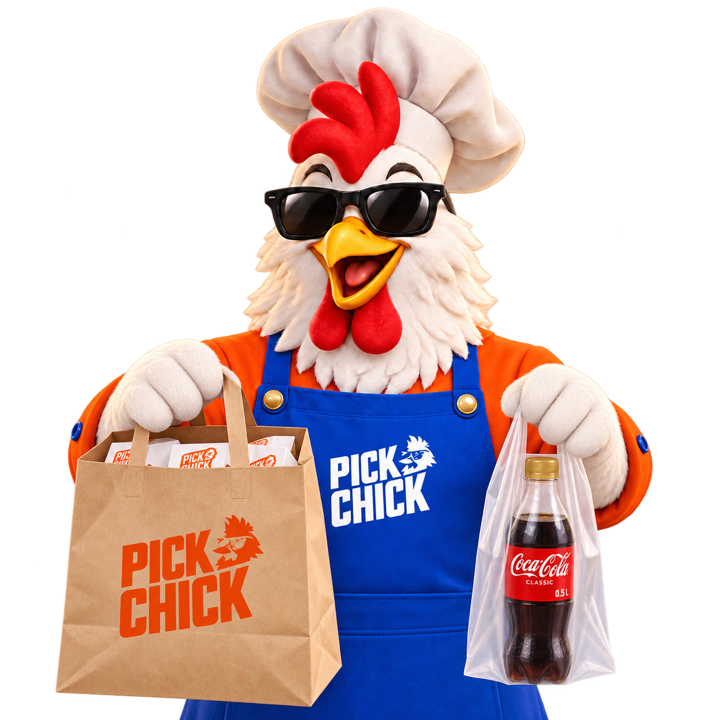
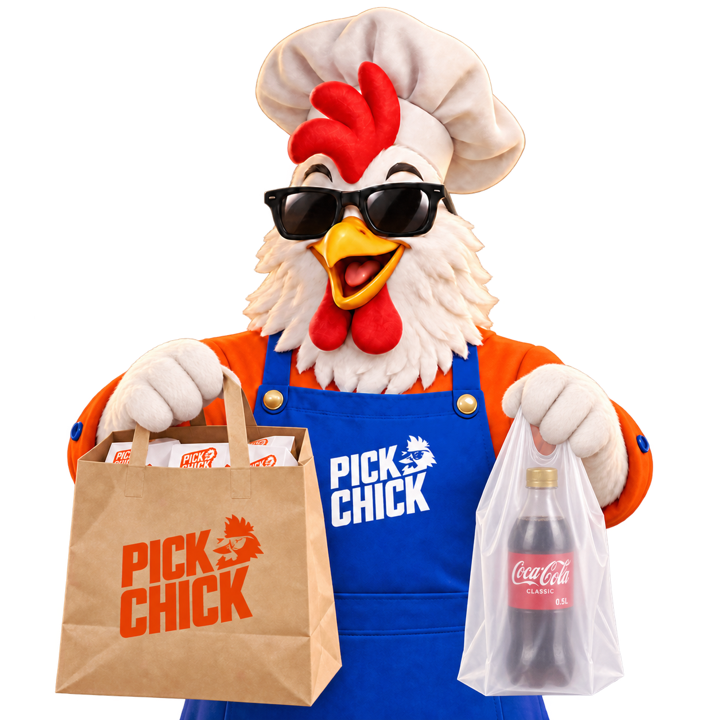
Polish cart layout and return directly to menu combos

diff --git a/apps/mobile/src/screens/CatalogScreens.tsx b/apps/mobile/src/screens/CatalogScreens.tsx
@@ -14,7 +14,7 @@ import Animated, {
   useSharedValue,
 } from 'react-native-reanimated';
 import { Image } from 'expo-image';
-import { useRouter } from 'expo-router';
+import { useLocalSearchParams, useRouter } from 'expo-router';
 import * as Linking from 'expo-linking';
 import { ScrollView, StyleSheet, Text, View, useWindowDimensions } from 'react-native';
 import { useSafeAreaInsets } from 'react-native-safe-area-context';
@@ -248,6 +248,7 @@ const ProductMenuCard = memo(function ProductMenuCard({
 export function Menu(props: ScreenProps) {
   const [cartHeight, setCartHeight] = useState(100);
   const router = useRouter();
+  const { catalogVisit } = useLocalSearchParams();
   const reduced = useReducedMotion();
   const published = usePublishedContent(props.model.branch?.id);
   const promotion = props.preview ? null : (published.content?.promos[0] ?? null);
@@ -292,6 +293,16 @@ export function Menu(props: ScreenProps) {
     offsets.value = categories.map((name) => catalogTop + (sectionY.current[name] ?? 0));
   };
   useEffect(updateOffsets, [catalogTop, categories]);
+  useEffect(() => {
+    if (!catalogVisit || !catalogTop) return;
+    const frame = requestAnimationFrame(() => {
+      const target = Math.max(0, catalogTop - collapsedHeaderHeight - categoryHeight);
+      setCategory(categories[0] ?? 'Комбо');
+      requestedCategory.value = -1;
+      scroll.current?.scrollTo({ y: target, animated: false });
+    });
+    return () => cancelAnimationFrame(frame);
+  }, [catalogVisit, catalogTop, collapsedHeaderHeight, categoryHeight, categories]);
   const selectVisibleCategory = (index: number) => {
     const name = categories[index];
     if (name) setCategory(name);
@@ -700,10 +711,9 @@ export function Cart(props: ScreenProps) {
       ) : (
         <>
           <Row style={s.cartFulfilment}>
-            <Icon name="bag-handle-outline" size={16} color={colors.accent} />
+            <Icon name="time-outline" size={18} color={colors.accent} />
             <Body style={[orderUI.detail, { fontFamily: font.medium, flexShrink: 1 }]}>
-              {props.model.diningMode === 'takeaway' ? 'С собой' : 'В зале'} · Приготовим за ~
-              {preparationMinutes(props.model.cart)} мин
+              Приготовим примерно за {preparationMinutes(props.model.cart)} мин
             </Body>
           </Row>
           {props.model.catalogMode === 'design' ? (
@@ -718,10 +728,10 @@ export function Cart(props: ScreenProps) {
                   contentFit="contain"
                 />
                 <View style={ui.flex}>
-                  <Heading small style={[orderUI.label, { fontFamily: font.bold }]}>
+                  <Heading small style={s.cartName}>
                     {line.product.name}
                   </Heading>
-                  <Caption style={[orderUI.detail, { marginTop: 4 }]}>
+                  <Caption style={s.cartDescription}>
                     {selectionDescription(line) || line.product.description}
                   </Caption>
                   <Pressable
@@ -781,6 +791,14 @@ export function Cart(props: ScreenProps) {
               </Row>
             </View>
           ))}
+          <Button
+            title="Добавить ещё что-нибудь"
+            testID="cart-add-more"
+            textStyle={orderUI.actionText}
+            secondary
+            icon="arrow-back"
+            onPress={() => props.navigate('M06')}
+          />
           <CartOffers props={props} />
           <PromoCodeEntry />
           <View style={{ gap: 12, paddingVertical: 8 }}>
@@ -796,16 +814,7 @@ export function Cart(props: ScreenProps) {
               Чики за покупки появятся после подключения программы.
             </Caption>
           </View>
-          <Button
-            title="Добавить ещё что-нибудь"
-            textStyle={orderUI.actionText}
-            secondary
-            icon="add"
-            onPress={() => props.navigate('M06')}
-          />
-          <Caption style={orderUI.detail}>
-            Окончательную цену и доступность подтвердит ресторан при оформлении.
-          </Caption>
+          <Caption style={orderUI.detail}>Цены и наличие блюд проверим при оформлении.</Caption>
         </>
       )}
     </Page>
@@ -1079,14 +1088,22 @@ const s = StyleSheet.create({
     gap: 8,
   },
   cartLine: {
-    gap: 12,
-    paddingVertical: 16,
-    borderBottomWidth: StyleSheet.hairlineWidth,
-    borderBottomColor: colors.border,
+    gap: 8,
+    padding: 14,
+    borderRadius: 20,
+    backgroundColor: colors.surface,
   },
-  cartProduct: { flexDirection: 'row', alignItems: 'flex-start', gap: 16 },
+  cartProduct: { flexDirection: 'row', alignItems: 'flex-start', gap: 12 },
+  cartName: { fontFamily: font.bold, fontSize: 17, lineHeight: 24 },
+  cartDescription: {
+    fontFamily: font.body,
+    fontSize: 14,
+    lineHeight: 20,
+    marginTop: 4,
+    color: '#C0CDE6',
+  },
   upsell: { width: 130, borderRadius: 18, padding: 10, gap: 8, backgroundColor: colors.surface },
-  cartImage: { width: 84, height: 84, borderRadius: 12 },
+  cartImage: { width: 88, height: 88, borderRadius: 14 },
   stepper: { backgroundColor: colors.raised, borderRadius: 22, alignSelf: 'flex-start', gap: 0 },
   largeIcon: {
     width: 94,

diff --git a/apps/mobile/src/components/ComboRewardCard.tsx b/apps/mobile/src/components/ComboRewardCard.tsx
@@ -76,7 +76,7 @@ export function ComboRewardCard({
                     style={[s.stamp, earned && s.earned, index === 7 && s.gift]}
                   >
                     {earned ? (
-                      <Icon name="checkmark" size={17} color="#5E290C" />
+                      <Icon name="checkmark-circle" size={22} color="#073E2D" />
                     ) : index === 7 ? (
                       <Icon name="gift-outline" size={17} color="#FFE2C3" />
                     ) : (
@@ -192,7 +192,7 @@ const s = StyleSheet.create({
   stamps: { flexDirection: 'row', gap: 6 },
   stamp: {
     flex: 1,
-    height: 28,
+    height: 30,
     borderRadius: 8,
     alignItems: 'center',
     justifyContent: 'center',
@@ -200,7 +200,7 @@ const s = StyleSheet.create({
     borderWidth: 1,
     borderColor: '#738699',
   },
-  earned: { backgroundColor: '#FFE2C3', borderColor: '#FFE2C3' },
+  earned: { backgroundColor: colors.success, borderColor: colors.success },
   gift: { backgroundColor: '#163755', borderColor: '#FFE2C3' },
   stampNumber: { fontFamily: font.bold, fontSize: 13, lineHeight: 18, color: '#E3EDF7' },
   details: { flexDirection: 'row', alignItems: 'center', justifyContent: 'space-between', gap: 8 },

diff --git a/apps/mobile/src/ScreenHost.tsx b/apps/mobile/src/ScreenHost.tsx
@@ -33,6 +33,13 @@ export function ScreenHost({ id, preview = false }: { id: ScreenId; preview?: bo
     [router],
   );
   const navigate = (next: ScreenId) => {
+    if (id === 'M09' && next === 'M06') {
+      router.dismissTo({
+        pathname: '/(tabs)/menu',
+        params: { catalogVisit: String(Date.now()), ...(preview ? { preview: '1' } : {}) },
+      });
+      return;
+    }
     if (['M17', 'M18', 'M20'].includes(next)) {
       if (id === 'M12') router.dismissAll();
       router.navigate({

diff --git a/apps/mobile/src/screens/OrderStatusScreen.tsx b/apps/mobile/src/screens/OrderStatusScreen.tsx
@@ -164,7 +164,7 @@ export function OrderStatusScreen({
                 testID="connected-order-number"
                 accessibilityLabel={`Заказ номер ${order.number}${name ? `, ${name}` : ''}`}
               >
-                {order.number}
+                № {order.number}
                 {name ? ` · ${name}` : ''}
               </Text>
             </View>

diff --git a/apps/mobile/src/app/(tabs)/menu.tsx b/apps/mobile/src/app/(tabs)/menu.tsx
@@ -1,4 +1,6 @@
 import { ScreenHost } from '../../ScreenHost';
+import { useLocalSearchParams } from 'expo-router';
 export default function Menu() {
-  return <ScreenHost id="M06" />;
+  const { preview } = useLocalSearchParams();
+  return <ScreenHost id="M06" preview={preview === '1'} />;
 }

diff --git a/docs/project-status.md b/docs/project-status.md
@@ -1,5 +1,11 @@
 # PickChick — состояние проекта
 
+### Корзина, возврат в меню и номер заказа
+
+Корзина: аккуратные карточки блюд, белые фото 88px, названия 17/24 и состав 14/20. Кнопка «Добавить ещё что-нибудь» сразу под блюдами закрывает корзину и открывает вкладку меню у «Комбо на одного», сохраняя заказ. Убрано «С собой / В зале» из корзины, остаётся примерное время; способ получения выбирается на оформлении. Серверные отметки 7+1 показаны заметными галочками, неизвестные данные не подменяются; компактная карточка остаётся 136px. Перед номером статуса добавлен №. Кола в выдаче с собой теперь за матовой передней стенкой пакета с закрытым дном. Проверены 203 Node + 30 Python mobile-тестов, typecheck, ESLint/format, detector, iOS Dev HTTP200; CUA320/393/768: возврат без модального меню, сохранение корзины, первый раздел, выбор зала, отметки и №12/пакет. Физическая приёмка отдельно; VPS/TestFlight/онлайн-пульт не обновлены. Серверный выпуск 7+1 остаётся отдельной зависимостью.
+
+Подробности: `docs/operations/product-photo-pilot.md`.
+
 ### Отдельная сцена выдачи с собой
 
 Для выдачи сохранён прежний поднос в зале и добавлена отдельная сцена «С собой»: еда в фирменном крафтовом пакете, Coca-Cola 0,5 л в отдельном прозрачном пакете. Выбор идёт по snapshot.service_mode сохранённого заказа при ready/fulfilled, а не по текущей настройке корзины. Приготовление и сборка прежние, crossfade240ms/Reduce Motion сохранены. Четыре теста статусов, typecheck, ESLint/Prettier и Impeccable detect прошли; PNG720×720 с alpha, asset HTTP200/hash и iOS Dev bundle проверены. CUA393×852 подтвердил готовый заказ «С собой» с двумя пакетами. Browser fixture обновлена под takeaway, полный browser suite не запускался; физическая приёмка отдельно. VPS/TestFlight/онлайн-пульт не обновлены.

diff --git a/docs/collaboration/handoff.md b/docs/collaboration/handoff.md
@@ -1,5 +1,11 @@
 # Контекст для нового компьютера
 
+## Последнее: cart-ux-return
+
+Корзина: аккуратные карточки блюд, белые фото 88px, названия 17/24 и состав 14/20. Кнопка «Добавить ещё что-нибудь» сразу под блюдами закрывает корзину и открывает вкладку меню у «Комбо на одного», сохраняя заказ. Убрано «С собой / В зале» из корзины, остаётся примерное время; способ получения выбирается на оформлении. Серверные отметки 7+1 показаны заметными галочками, неизвестные данные не подменяются; компактная карточка остаётся 136px. Перед номером статуса добавлен №. Кола в выдаче с собой теперь за матовой передней стенкой пакета с закрытым дном. Проверены 203 Node + 30 Python mobile-тестов, typecheck, ESLint/format, detector, iOS Dev HTTP200; CUA320/393/768: возврат без модального меню, сохранение корзины, первый раздел, выбор зала, отметки и №12/пакет. Физическая приёмка отдельно; VPS/TestFlight/онлайн-пульт не обновлены. Серверный выпуск 7+1 остаётся отдельной зависимостью.
+
+Подробности: `docs/operations/product-photo-pilot.md`.
+
 ## Последнее: chef-takeaway
 
 Для выдачи сохранён прежний поднос в зале и добавлена отдельная сцена «С собой»: еда в фирменном крафтовом пакете, Coca-Cola 0,5 л в отдельном прозрачном пакете. Выбор идёт по snapshot.service_mode сохранённого заказа при ready/fulfilled, а не по текущей настройке корзины. Приготовление и сборка прежние, crossfade240ms/Reduce Motion сохранены. Четыре теста статусов, typecheck, ESLint/Prettier и Impeccable detect прошли; PNG720×720 с alpha, asset HTTP200/hash и iOS Dev bundle проверены. CUA393×852 подтвердил готовый заказ «С собой» с двумя пакетами. Browser fixture обновлена под takeaway, полный browser suite не запускался; физическая приёмка отдельно. VPS/TestFlight/онлайн-пульт не обновлены.

diff --git a/docs/operations/product-photo-pilot.md b/docs/operations/product-photo-pilot.md
@@ -1,5 +1,9 @@
 # Пробные страницы комбо и бургера
 
+## Корзина и возврат к комбо - 27 сентября
+
+Корзина: аккуратные карточки блюд, белые фото 88px, названия 17/24 и состав 14/20. Кнопка «Добавить ещё что-нибудь» сразу под блюдами закрывает корзину и открывает вкладку меню у «Комбо на одного», сохраняя заказ. Убрано «С собой / В зале» из корзины, остаётся примерное время; способ получения выбирается на оформлении. Серверные отметки 7+1 показаны заметными галочками, неизвестные данные не подменяются; компактная карточка остаётся 136px. Перед номером статуса добавлен №. Кола в выдаче с собой теперь за матовой передней стенкой пакета с закрытым дном. Проверены 203 Node + 30 Python mobile-тестов, typecheck, ESLint/format, detector, iOS Dev HTTP200; CUA320/393/768: возврат без модального меню, сохранение корзины, первый раздел, выбор зала, отметки и №12/пакет. Физическая приёмка отдельно; VPS/TestFlight/онлайн-пульт не обновлены. Серверный выпуск 7+1 остаётся отдельной зависимостью.
+
 27.09.2026. По двум скриншотам Dodo владелец поручил сделать один пример комбо
 и одну отдельную позицию; затем явно выбрал наш бургер. Использованы UI/UX Pro Max
 (native touch guidance) и Impeccable; брендовые шрифты и действие сохранены.

diff --git a/apps/mobile/assets/order-status/README.md b/apps/mobile/assets/order-status/README.md
@@ -1,5 +1,9 @@
 # Персонаж статуса заказа
 
+## Уточнение пакета с колой - 27 сентября
+
+Через image_gen изменён пакет напитка: матовая передняя стенка перекрывает бутылку, видны боковые швы и закрытое дно ниже бутылки. Кола полностью внутри. PNG720×720 с alpha проверен в сцене «С собой»; персонаж и крафтовый пакет еды сохранены.
+
 Создано 27 сентября 2026 по поручению владельца через встроенную генерацию изображений.
 Визуальный источник бренда: `design/prototype/assets/mockup/logo.png`.
 Скриншоты владельца задают композицию панели, но персонаж и бренд конкурента не копируются.
